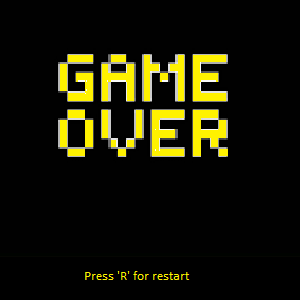
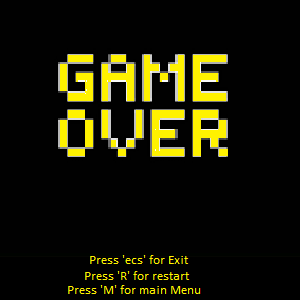
Interface 2.0 avec gestion de la victoire et du game over

Changed region(s): [[0.3, 0.84, 0.63, 0.9], [0.21, 0.93, 0.69, 0.99]]

diff --git a/src/view/Game.java b/src/view/Game.java
@@ -226,13 +226,13 @@ public class Game extends JFrame{
 		this.key_right=false;
 		this.key_left=false;
 		
-		this.checkFinish();
-		this.checkGameOver();
-		
 		panGame.removeAll();
 		Tab=l.getTableau("UP");
 		this.reset();
 		this.refresh();
+		this.checkFinish();
+		this.checkLife();
+		
 		this.getContentPane().repaint();
 	}
 	
@@ -243,13 +243,13 @@ public class Game extends JFrame{
 		this.key_right=false;
 		this.key_left=false;
 		
-		this.checkFinish();
-		this.checkGameOver();
-		
 		panGame.removeAll();
 		Tab=l.getTableau("DOWN");
 		this.reset();
 		this.refresh();
+		this.checkFinish();
+		this.checkLife();
+		
 		this.getContentPane().repaint();
 	}
 	
@@ -260,13 +260,13 @@ public class Game extends JFrame{
 		this.key_right=false;
 		this.key_left=true;
 		
-		this.checkFinish();
-		this.checkGameOver();
-		
 		panGame.removeAll();
 		Tab=l.getTableau("LEFT");
 		this.reset();
 		this.refresh();
+		this.checkFinish();
+		this.checkLife();
+		
 		this.getContentPane().repaint();
 	}
 	
@@ -276,16 +276,15 @@ public class Game extends JFrame{
 		this.key_down=false;
 		this.key_right=true;
 		this.key_left=false;
-		
-		this.checkFinish();
-		this.checkGameOver();
-		
+
 		panGame.removeAll();
 		Tab=l.getTableau("RIGHT");
 		this.reset();
 		this.refresh();
-		this.getContentPane().repaint();
+		this.checkFinish();
+		this.checkLife();
 		
+		this.getContentPane().repaint();
 	}
 	
 	public void refresh(){
@@ -338,6 +337,14 @@ public class Game extends JFrame{
 		this.dispose();
 		new Game(level+1);
 	}
+
+	@SuppressWarnings("deprecation")
+	public void restartLevel(){
+		listener.stop();
+		this.dispose();
+		new Game(level);
+	}
+	
 	
 	public boolean checkWin(){
 		return l.checkFinish();
@@ -356,11 +363,19 @@ public class Game extends JFrame{
 	}
 	
 	@SuppressWarnings("deprecation")
-	public void checkGameOver(){
-		if(l.getNbLife()==0){
-			System.out.println("test");
+	public void checkLife(){
+		if(l.getNbLife()<=0){
 			cl.show(container, "LOSE");
 			this.son.stop();
+		}
+	}
+	
+	public boolean checkGameOver(){
+		if(l.getNbLife()<=0){
+			return true;
+		}
+		else{
+			return false;
 		}
 	}
 

diff --git a/src/view/Listener.java b/src/view/Listener.java
@@ -50,6 +50,28 @@ public class Listener extends Thread implements KeyListener  {
 		  		game.newLevel();
 	  		}
 	  	}
+	  	
+	  	if((arg0.getKeyCode()==KeyEvent.VK_R)){
+	  		if(game.checkGameOver()){
+	  			g.stop();
+		  		game.restartLevel();
+	  		}
+	  	}
+	  	
+	  	if((arg0.getKeyCode()==KeyEvent.VK_ESCAPE)){
+	  		if(game.checkWin()||game.checkGameOver()){
+	  			g.stop();
+		  		game.dispose();
+	  		}
+	  	}
+	  	
+	  	if((arg0.getKeyCode()==KeyEvent.VK_M)){
+	  		if(game.checkWin()||game.checkGameOver()){
+	  			g.stop();
+		  		game.dispose();
+		  		new Accueil();
+	  		}
+	  	}
 	}
 
 
